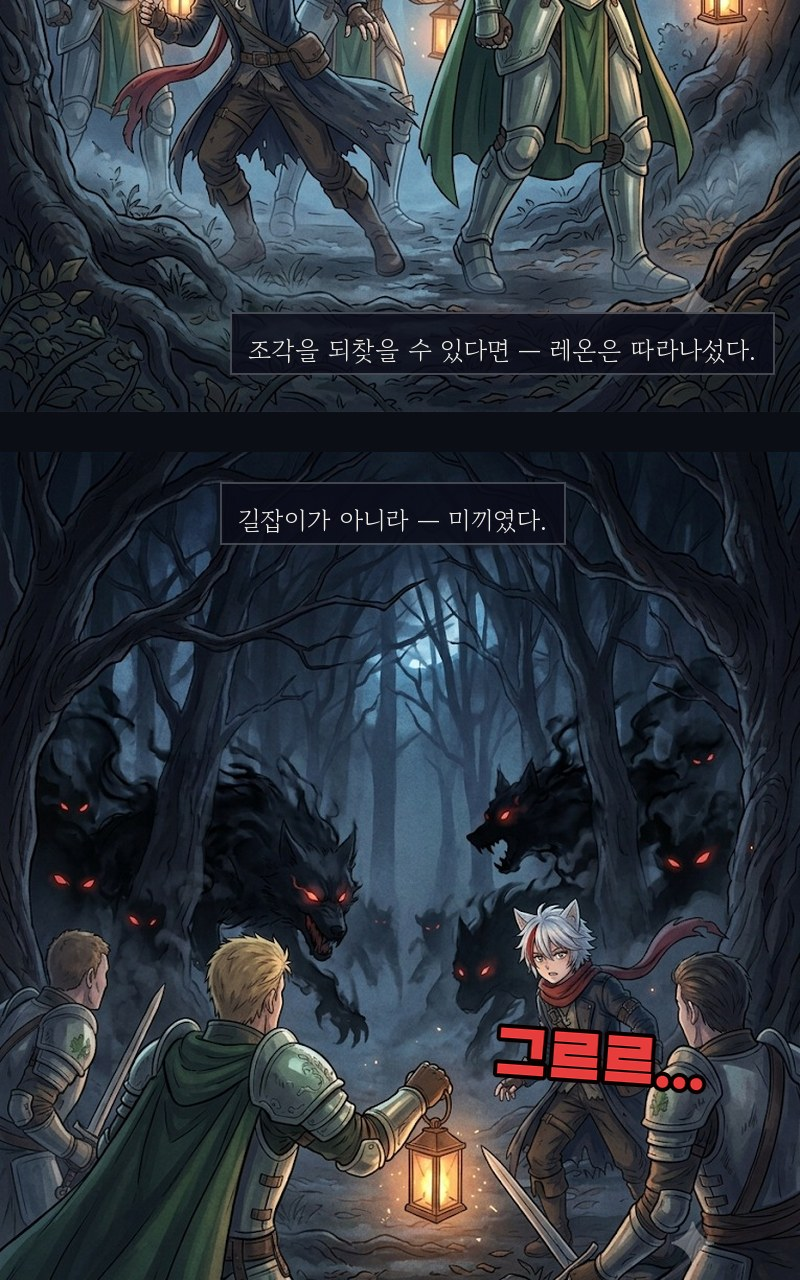
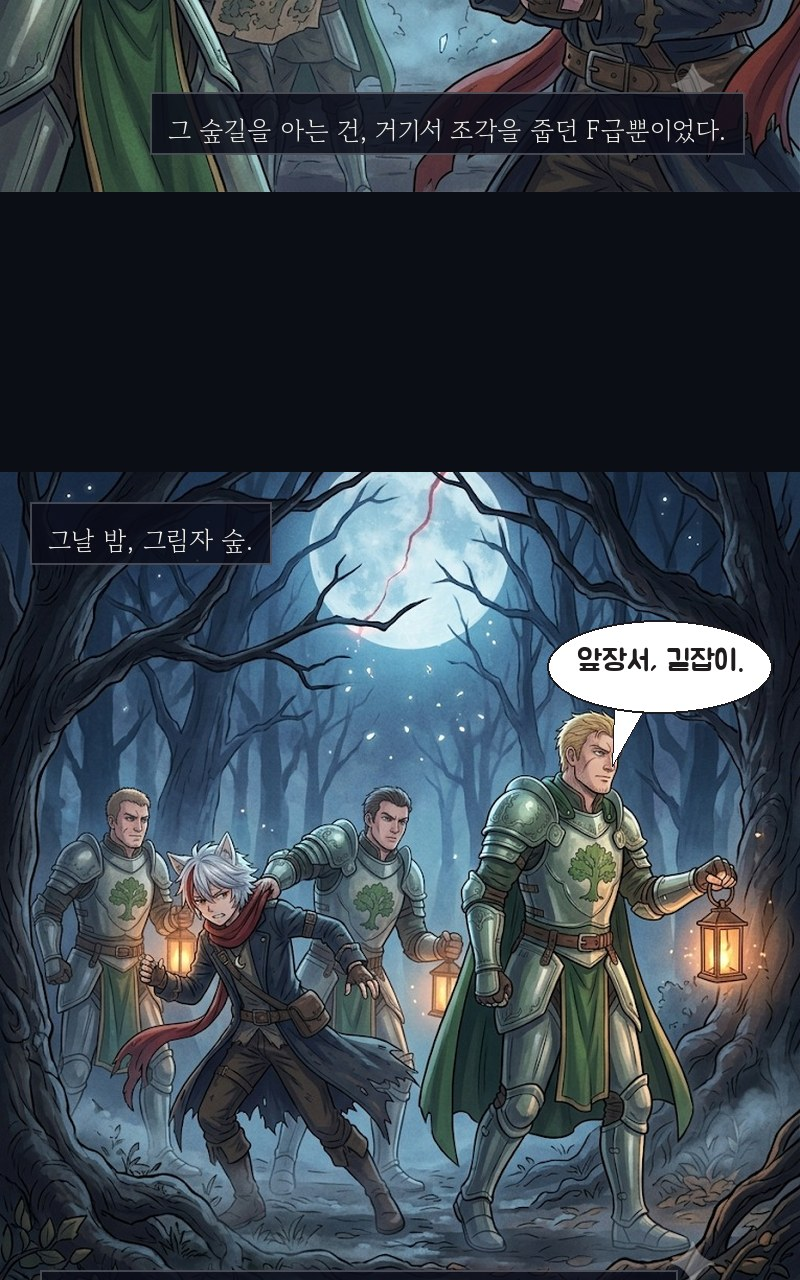
달빛툰 1화: 동기(돌려주겠다는 약속)·능력(미래 궤적) 컷 추가, 내레이션 잘림 방지
Claude-Session: https://claude.ai/code/session_01D8ERGz5r4FPkuXoKDYhqRw

diff --git a/_stage/dalbit2/index.html b/_stage/dalbit2/index.html
@@ -95,7 +95,7 @@ body.view .reader.img{padding-left:0;padding-right:0;max-width:800px}
 </head>
 <body>
 <div id="app"></div>
-<script src="data.js?v=3"></script>
+<script src="data.js?v=4"></script>
 <script>
 const S=window.TOON.series;const $=s=>document.querySelector(s);
 const esc=t=>String(t).replace(/[&<>]/g,c=>({"&":"&amp;","<":"&lt;",">":"&gt;"}[c]));

diff --git a/_stage/compose_ep1.py b/_stage/compose_ep1.py
@@ -16,7 +16,7 @@ BG = (12, 14, 22)
 
 
 def panel(n, width=W, crop_top=165):
-    im = Image.open(f"{SRC}/p{n:02d}.jpg").convert("RGB")
+    im = Image.open(f"{SRC}/p{n:02d}.jpg" if isinstance(n, int) else f"{SRC}/p{n}.jpg").convert("RGB")
     im = im.crop((0, crop_top, im.width, im.height))
     h = round(im.height * width / im.width)
     return im.resize((width, h), Image.LANCZOS)
@@ -76,6 +76,8 @@ def narration(img, text, x, y, size=26, maxw=560, dark=True):
     lh = size * 1.55
     tw = max(d.textlength(l, font=f) for l in lines)
     pad = 18
+    x = max(16, min(x, W - 16 - (tw + pad * 2)))
+    y = min(y, img.height - 16 - (lh * len(lines) + pad * 2 - (lh - size)))
     box = [x, y, x + tw + pad * 2, y + lh * len(lines) + pad * 2 - (lh - size)]
     d.rectangle(box, fill=(10, 12, 24, 215) if dark else (250, 247, 240, 235), outline=(255, 255, 255, 60) if dark else (40, 30, 20, 120), width=2)
     yy = y + pad
@@ -129,12 +131,18 @@ blocks.append((p, 60))
 p = panel(3)
 bubble(p, "이건 그린홀드\n기사단이 가져가지.", 230, 110, size=30, tail=(300, 260))
 narration(p, "가문 없는 여우는, 원래 그런 대우를 받았다.", 120, p.height - 100)
+blocks.append((p, 60))
+
+p = panel("03b")
+bubble(p, "그림자 숲 길 안내해라.\n살아서 나오면, 이건 돌려주지.", 250, 95, size=26, tail=(250, 200), maxw=420)
+bubble(p, "…약속했어.", 640, 260, size=28, tail=(610, 360))
+narration(p, "그 숲길을 아는 건, 거기서 조각을 줍던 F급뿐이었다.", 150, p.height - 100, maxw=620)
 blocks.append((p, 280))
 
 p = panel(4)
-narration(p, "그날 밤, 그림자 숲.\n그 숲길을 아는 건, 거기서 조각을 줍던 F급뿐이었다.", 30, 30, maxw=640)
-bubble(p, "길 안내해.\n조각 값은 쳐주지.", 660, 195, size=26, tail=(610, 300))
-narration(p, "조각을 되찾을 수 있다면 — 레온은 따라나섰다.", 230, p.height - 100, maxw=560)
+narration(p, "그날 밤, 그림자 숲.", 30, 30)
+bubble(p, "앞장서, 길잡이.", 660, 195, size=26, tail=(610, 300))
+narration(p, "조각을 되찾을 수 있다면 — 레온은 어디든 갈 수 있었다.", 40, p.height - 100, maxw=720)
 blocks.append((p, 40))
 
 p = panel(5)
@@ -165,8 +173,13 @@ narration(p, "그런데 — 반대였다.", 430, p.height - 100)
 blocks.append((p, 40))
 
 p = panel(9)
-narration(p, "수십 번. 아니, 백 번 가까이 살아 본 기억.\n짐승들이 어디로 뛸지 — 이미 본 적이 있었다.", 30, 30, maxw=640)
-bubble(p, "…다음은, 왼쪽.", 600, p.height - 150, size=28, tail=(520, p.height - 260))
+narration(p, "수십 번. 아니, 백 번 가까이 살아 본 기억.\n그 기억 속의 나는 — 이 짐승들과 이미 싸워 봤다.", 30, 30, maxw=660)
+bubble(p, "…알아, 너희.", 640, p.height - 120, size=28, tail=(560, p.height - 200))
+blocks.append((p, 40))
+
+p = panel("09b")
+narration(p, "백 번의 기억이 겹쳐지자, 보였다.\n짐승이 어디로 뛸지 — 한 걸음 먼저.", 30, 30, maxw=640)
+bubble(p, "왼쪽 하나.\n뒤로 둘.", 650, p.height - 140, size=26, tail=(560, p.height - 230))
 blocks.append((p, 40))
 
 p = panel(10)

diff --git a/toon_tools/compose_ep1.py b/toon_tools/compose_ep1.py
@@ -16,7 +16,7 @@ BG = (12, 14, 22)
 
 
 def panel(n, width=W, crop_top=165):
-    im = Image.open(f"{SRC}/p{n:02d}.jpg").convert("RGB")
+    im = Image.open(f"{SRC}/p{n:02d}.jpg" if isinstance(n, int) else f"{SRC}/p{n}.jpg").convert("RGB")
     im = im.crop((0, crop_top, im.width, im.height))
     h = round(im.height * width / im.width)
     return im.resize((width, h), Image.LANCZOS)
@@ -76,6 +76,8 @@ def narration(img, text, x, y, size=26, maxw=560, dark=True):
     lh = size * 1.55
     tw = max(d.textlength(l, font=f) for l in lines)
     pad = 18
+    x = max(16, min(x, W - 16 - (tw + pad * 2)))
+    y = min(y, img.height - 16 - (lh * len(lines) + pad * 2 - (lh - size)))
     box = [x, y, x + tw + pad * 2, y + lh * len(lines) + pad * 2 - (lh - size)]
     d.rectangle(box, fill=(10, 12, 24, 215) if dark else (250, 247, 240, 235), outline=(255, 255, 255, 60) if dark else (40, 30, 20, 120), width=2)
     yy = y + pad
@@ -129,12 +131,18 @@ blocks.append((p, 60))
 p = panel(3)
 bubble(p, "이건 그린홀드\n기사단이 가져가지.", 230, 110, size=30, tail=(300, 260))
 narration(p, "가문 없는 여우는, 원래 그런 대우를 받았다.", 120, p.height - 100)
+blocks.append((p, 60))
+
+p = panel("03b")
+bubble(p, "그림자 숲 길 안내해라.\n살아서 나오면, 이건 돌려주지.", 250, 95, size=26, tail=(250, 200), maxw=420)
+bubble(p, "…약속했어.", 640, 260, size=28, tail=(610, 360))
+narration(p, "그 숲길을 아는 건, 거기서 조각을 줍던 F급뿐이었다.", 150, p.height - 100, maxw=620)
 blocks.append((p, 280))
 
 p = panel(4)
-narration(p, "그날 밤, 그림자 숲.\n그 숲길을 아는 건, 거기서 조각을 줍던 F급뿐이었다.", 30, 30, maxw=640)
-bubble(p, "길 안내해.\n조각 값은 쳐주지.", 660, 195, size=26, tail=(610, 300))
-narration(p, "조각을 되찾을 수 있다면 — 레온은 따라나섰다.", 230, p.height - 100, maxw=560)
+narration(p, "그날 밤, 그림자 숲.", 30, 30)
+bubble(p, "앞장서, 길잡이.", 660, 195, size=26, tail=(610, 300))
+narration(p, "조각을 되찾을 수 있다면 — 레온은 어디든 갈 수 있었다.", 40, p.height - 100, maxw=720)
 blocks.append((p, 40))
 
 p = panel(5)
@@ -165,8 +173,13 @@ narration(p, "그런데 — 반대였다.", 430, p.height - 100)
 blocks.append((p, 40))
 
 p = panel(9)
-narration(p, "수십 번. 아니, 백 번 가까이 살아 본 기억.\n짐승들이 어디로 뛸지 — 이미 본 적이 있었다.", 30, 30, maxw=640)
-bubble(p, "…다음은, 왼쪽.", 600, p.height - 150, size=28, tail=(520, p.height - 260))
+narration(p, "수십 번. 아니, 백 번 가까이 살아 본 기억.\n그 기억 속의 나는 — 이 짐승들과 이미 싸워 봤다.", 30, 30, maxw=660)
+bubble(p, "…알아, 너희.", 640, p.height - 120, size=28, tail=(560, p.height - 200))
+blocks.append((p, 40))
+
+p = panel("09b")
+narration(p, "백 번의 기억이 겹쳐지자, 보였다.\n짐승이 어디로 뛸지 — 한 걸음 먼저.", 30, 30, maxw=640)
+bubble(p, "왼쪽 하나.\n뒤로 둘.", 650, p.height - 140, size=26, tail=(560, p.height - 230))
 blocks.append((p, 40))
 
 p = panel(10)
